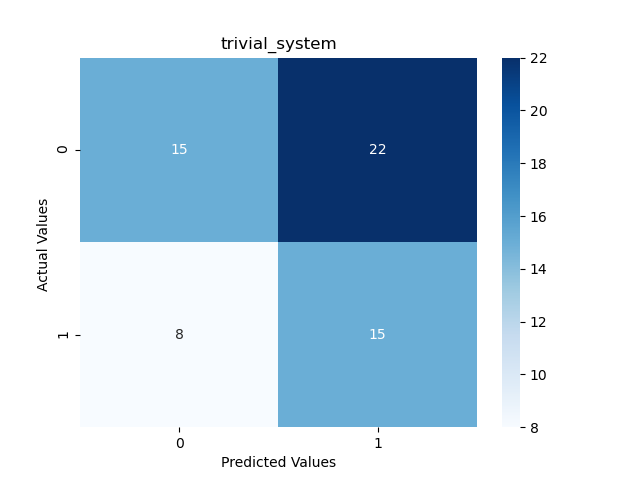
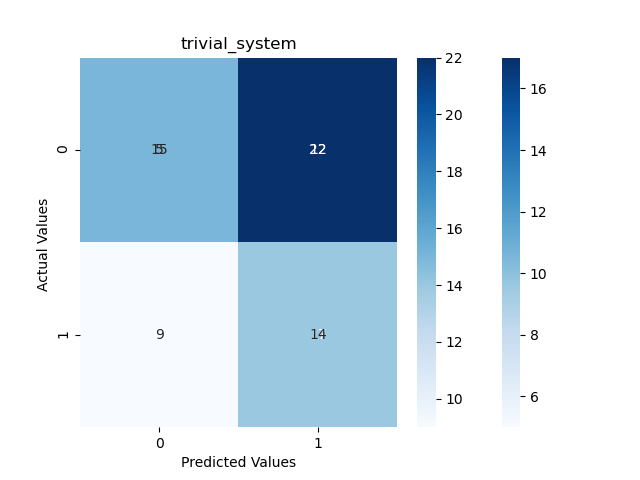
add cv

diff --git a/trivial.py b/trivial.py
@@ -1,7 +1,10 @@
 import numpy as np
+import pandas as pd
+
+from statistics import mean
 
 from utils.read_data import read_data
-from utils.metrics import metrics
+from utils.metrics import metrics, plot_val_cf_matrix
 
 def predict(prob_0, prob_1, test_len):
     """
@@ -16,6 +19,26 @@ def predict(prob_0, prob_1, test_len):
 def main():
     X_tr, y_tr = read_data('datasets/algerian_fires_train.csv')
     _, y_test = read_data('datasets/algerian_fires_test.csv')
+    "========Val========="
+    F1_result, Acc_result, TP, TN, FP, FN = [0]*4, [0]*4, [0]*4, [0]*4, [0]*4, [0]*4
+    for m in range(4):
+        X_val, y_val = X_tr.iloc[46*m:46*(m+1)], y_tr.iloc[46*m:46*(m+1)]
+        if m == 0: X_tr_prime, y_tr_prime = X_tr.iloc[46:], y_tr.iloc[46:]
+        elif m == 1: 
+            X_tr_prime = pd.concat([X_tr.iloc[:46], X_tr.iloc[92:]])
+            y_tr_prime = pd.concat([y_tr.iloc[:46], y_tr.iloc[92:]])
+        elif m == 2: 
+            X_tr_prime = pd.concat([X_tr.iloc[:92], X_tr.iloc[138:]])
+            y_tr_prime = pd.concat([y_tr.iloc[:92], y_tr.iloc[138:]])
+        else: X_tr_prime, y_tr_prime = X_tr.iloc[:138], y_tr.iloc[:138]
+        N = X_tr_prime.shape[0] 
+        N0 = y_tr_prime.value_counts().loc[0] 
+        N1 = y_tr_prime.value_counts().loc[1] 
+        y_val_pred = predict(N0/N, N1/N, y_val.shape)
+        F1_result[m], Acc_result[m], TP[m], TN[m], FP[m], FN[m] = metrics(y_val, y_val_pred, "trivial_system", work='val')
+    print("Val F1_score=", mean(F1_result), "Val Accuracy=", mean(Acc_result))
+    plot_val_cf_matrix(y_val, y_val_pred, "baseline_system", mean(TP), mean(TN), mean(FP), mean(FN))
+    "========Test========"
     # number of total training data pts
     N = X_tr.shape[0] # 184
     # number of training data pts with label 0
@@ -24,7 +47,7 @@ def main():
     N1 = y_tr.value_counts().loc[1] #115
     y_test_pred = predict(N0/N, N1/N, y_test.shape)
     F1_score, Accuracy = metrics(y_test, y_test_pred, "trivial_system")
-    print("F1_score=", F1_score, "Accuracy=", Accuracy)
+    print("Test F1_score=", F1_score, "Test Accuracy=", Accuracy)
 
 if __name__ == '__main__':
     main()

diff --git a/baseline.py b/baseline.py
@@ -1,7 +1,10 @@
 import numpy as np
+import pandas as pd
+
+from statistics import mean
 
 from utils.read_data import read_data
-from utils.metrics import metrics
+from utils.metrics import metrics, plot_val_cf_matrix
 
 def compute_mean(data , labels): 
     """Computes the means per class""" 
@@ -20,10 +23,29 @@ def predict(data, means):
 def main():
     X_tr, y_tr = read_data('datasets/algerian_fires_train.csv')
     X_test, y_test = read_data('datasets/algerian_fires_test.csv')
+    "========Val========"
+    F1_result, Acc_result, TP, TN, FP, FN = [0]*4, [0]*4, [0]*4, [0]*4, [0]*4, [0]*4
+    for m in range(4):
+        X_val, y_val = X_tr.iloc[46*m:46*(m+1)], y_tr.iloc[46*m:46*(m+1)]
+        if m == 0: X_tr_prime, y_tr_prime = X_tr.iloc[46:], y_tr.iloc[46:]
+        elif m == 1: 
+            X_tr_prime = pd.concat([X_tr.iloc[:46], X_tr.iloc[92:]])
+            y_tr_prime = pd.concat([y_tr.iloc[:46], y_tr.iloc[92:]])
+        elif m == 2: 
+            X_tr_prime = pd.concat([X_tr.iloc[:92], X_tr.iloc[138:]])
+            y_tr_prime = pd.concat([y_tr.iloc[:92], y_tr.iloc[138:]])
+        else: X_tr_prime, y_tr_prime = X_tr.iloc[:138], y_tr.iloc[:138]
+    
+        class_means = compute_mean(X_tr_prime, y_tr_prime)
+        y_val_pred = predict(X_val.iloc[:,1:], class_means)
+        F1_result[m], Acc_result[m], TP[m], TN[m], FP[m], FN[m] = metrics(y_val, y_val_pred, "baseline_system", work='val')
+    print("Val F1_score=", mean(F1_result), "Val Accuracy=", mean(Acc_result))
+    plot_val_cf_matrix(y_val, y_val_pred, "baseline_system", mean(TP), mean(TN), mean(FP), mean(FN))
+    "========Test========"
     class_means = compute_mean(X_tr, y_tr)
     y_test_pred = predict(X_test.iloc[:,1:], class_means)
-    F1_score, Accuracy = metrics(y_test, y_test_pred, "baseline_system")
-    print("F1_score=", F1_score, "Accuracy=", Accuracy)
+    F1_score, Accuracy = metrics(y_test, y_test_pred, "baseline_system", work='test')
+    print("Test F1_score=", F1_score, "Test Accuracy=", Accuracy)
 
 if __name__ == '__main__':
     main()

diff --git a/MSE.py b/MSE.py
@@ -4,7 +4,7 @@ import pandas as pd
 from statistics import mean
 
 from utils.read_data import read_data
-from utils.metrics import metrics
+from utils.metrics import metrics, plot_val_cf_matrix
 
 from sklearn.preprocessing import StandardScaler
 from imblearn.over_sampling import SMOTE
@@ -108,7 +108,7 @@ def main():
     X_test, y_test = read_data('datasets/algerian_fires_test.csv')
     # drop first column ("Date" feature)
     X_tr, X_test = X_tr.iloc[:,1:], X_test.iloc[:,1:]
-    F1_result, Acc_result = [0]*int(args.M), [0]*int(args.M)
+    F1_result, Acc_result, TP, TN, FP, FN = [0]*int(args.M), [0]*int(args.M), [0]*int(args.M), [0]*int(args.M), [0]*int(args.M), [0]*int(args.M)
     sm = SMOTE(random_state=42)
     scaler = StandardScaler()
     for m in range(int(args.M)):
@@ -136,9 +136,10 @@ def main():
                     not_linearly_separable, correctly_classified, w_vec, J_vec)
         
         y_val_pred = predict(X_val, y_val, w_hat)
-        F1_result[m], Acc_result[m] = metrics(y_val, y_val_pred, "perceptron", work='val')
+        F1_result[m], Acc_result[m], TP[m], TN[m], FP[m], FN[m] = metrics(y_val, y_val_pred, args.plot_title, work='val')
 
     print("Val F1_score=", mean(F1_result), "Val Accuracy=", mean(Acc_result))
+    plot_val_cf_matrix(y_val, y_val_pred, args.plot_title, mean(TP), mean(TN), mean(FP), mean(FN))
     print("Training with full dataset!")
     w, it, lr, not_linearly_separable, correctly_classified, w_vec, J_vec \
                                                                 = init_train_param(D)

diff --git a/utils/metrics.py b/utils/metrics.py
@@ -5,7 +5,6 @@ import matplotlib.pyplot as plt
 # Generates all performance measures
 
 def metrics(true_labels, pred_labels, plot_title, work='test'):
-    """Args: work: val or test"""
     cf_matrix = confusion_matrix(true_labels, pred_labels)
     TP, TN, FP, FN = cf_matrix[1][1], cf_matrix[0][0], cf_matrix[0][1], cf_matrix[1][0]
     Recall = TP/(TP+FN)
@@ -26,4 +25,23 @@ def metrics(true_labels, pred_labels, plot_title, work='test'):
 
         plt.savefig('cf_matrix_plots/'+plot_title+'.png')
 
-    return F1_score, Accuracy
+        return F1_score, Accuracy
+
+    else:
+        return F1_score, Accuracy, TP, TN, FP, FN
+
+def plot_val_cf_matrix(true_labels, pred_labels, plot_title, TP, TN, FP, FN):
+    cf_matrix = confusion_matrix(true_labels, pred_labels)
+    cf_matrix[1][1], cf_matrix[0][0], cf_matrix[0][1], cf_matrix[1][0] = TP, TN, FP, FN
+    
+    ax = sns.heatmap(cf_matrix, annot=True, cmap='Blues')
+
+    ax.set_title(plot_title)
+    ax.set_xlabel('Predicted Values')
+    ax.set_ylabel('Actual Values ')
+
+    ## Ticket labels - List must be in alphabetical order
+    ax.xaxis.set_ticklabels(['0','1'])
+    ax.yaxis.set_ticklabels(['0','1'])
+
+    plt.savefig('cf_matrix_plots/'+plot_title+'_val.png')

diff --git a/README.md b/README.md
@@ -112,7 +112,7 @@
     - Test F1-score: 0.9787
     - Test Accuracy: 0.9833
 
-    `python3 MSE.py --plot_title p_MSE` (b=1 for all data pts)
+    `python3 MSE.py --plot_title MSE` (b=1 for all data pts)
     - Val F1-score: 0.9942
     - Val Accuracy: 0.9891
     - Test F1-score: 1
